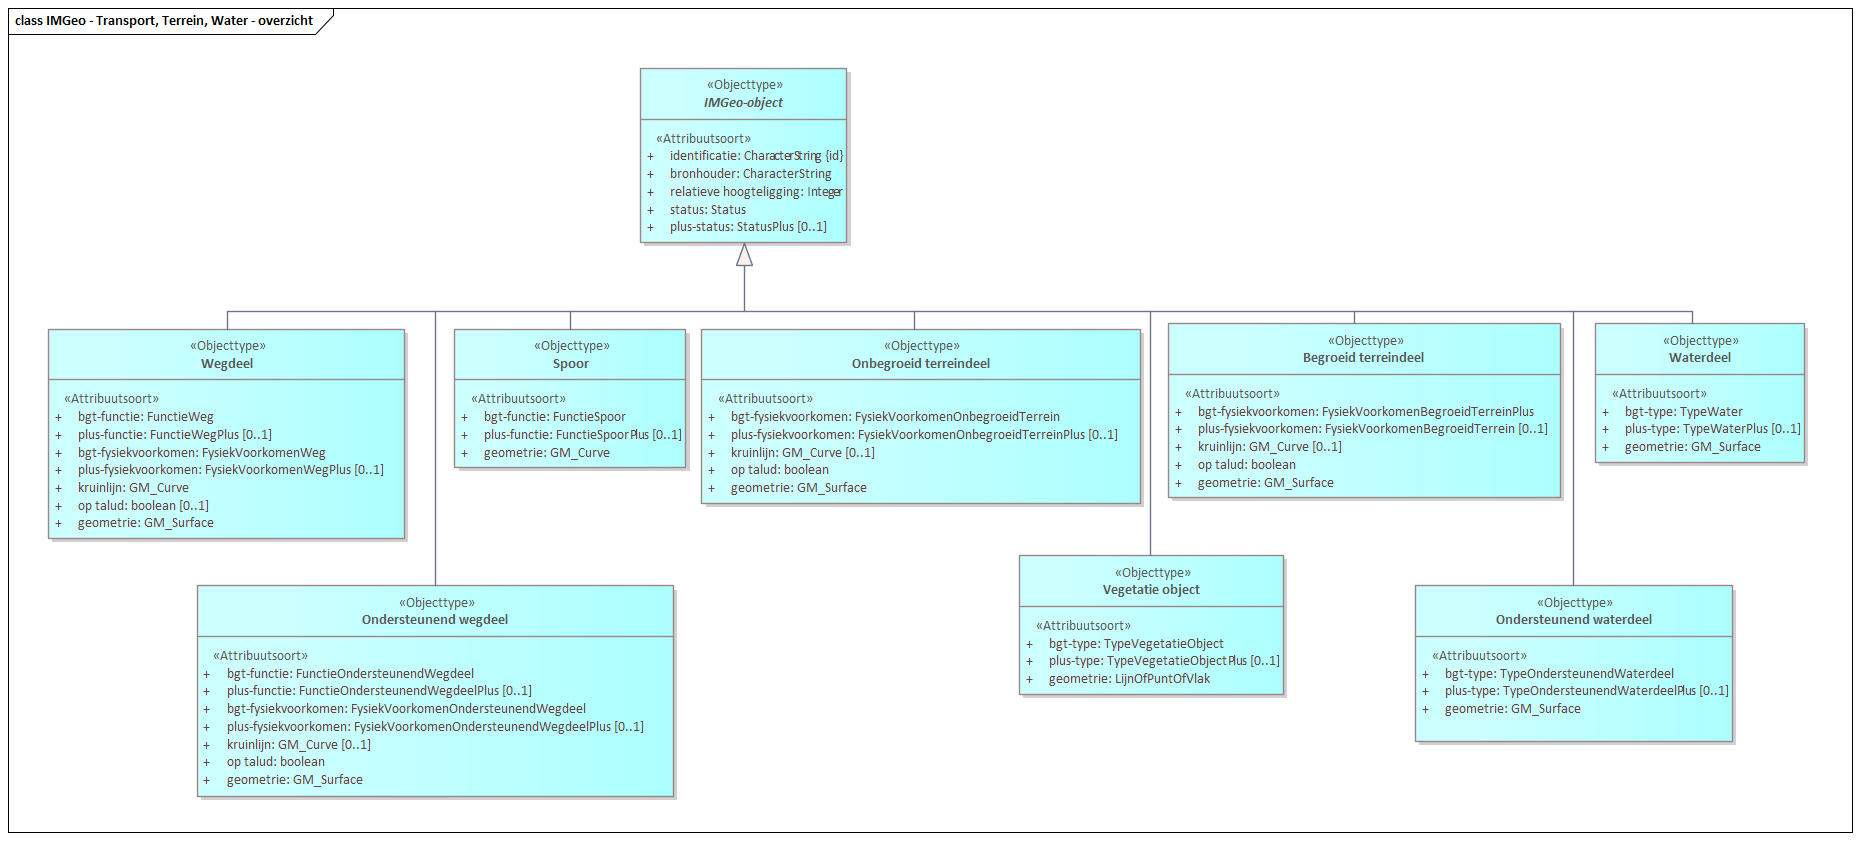
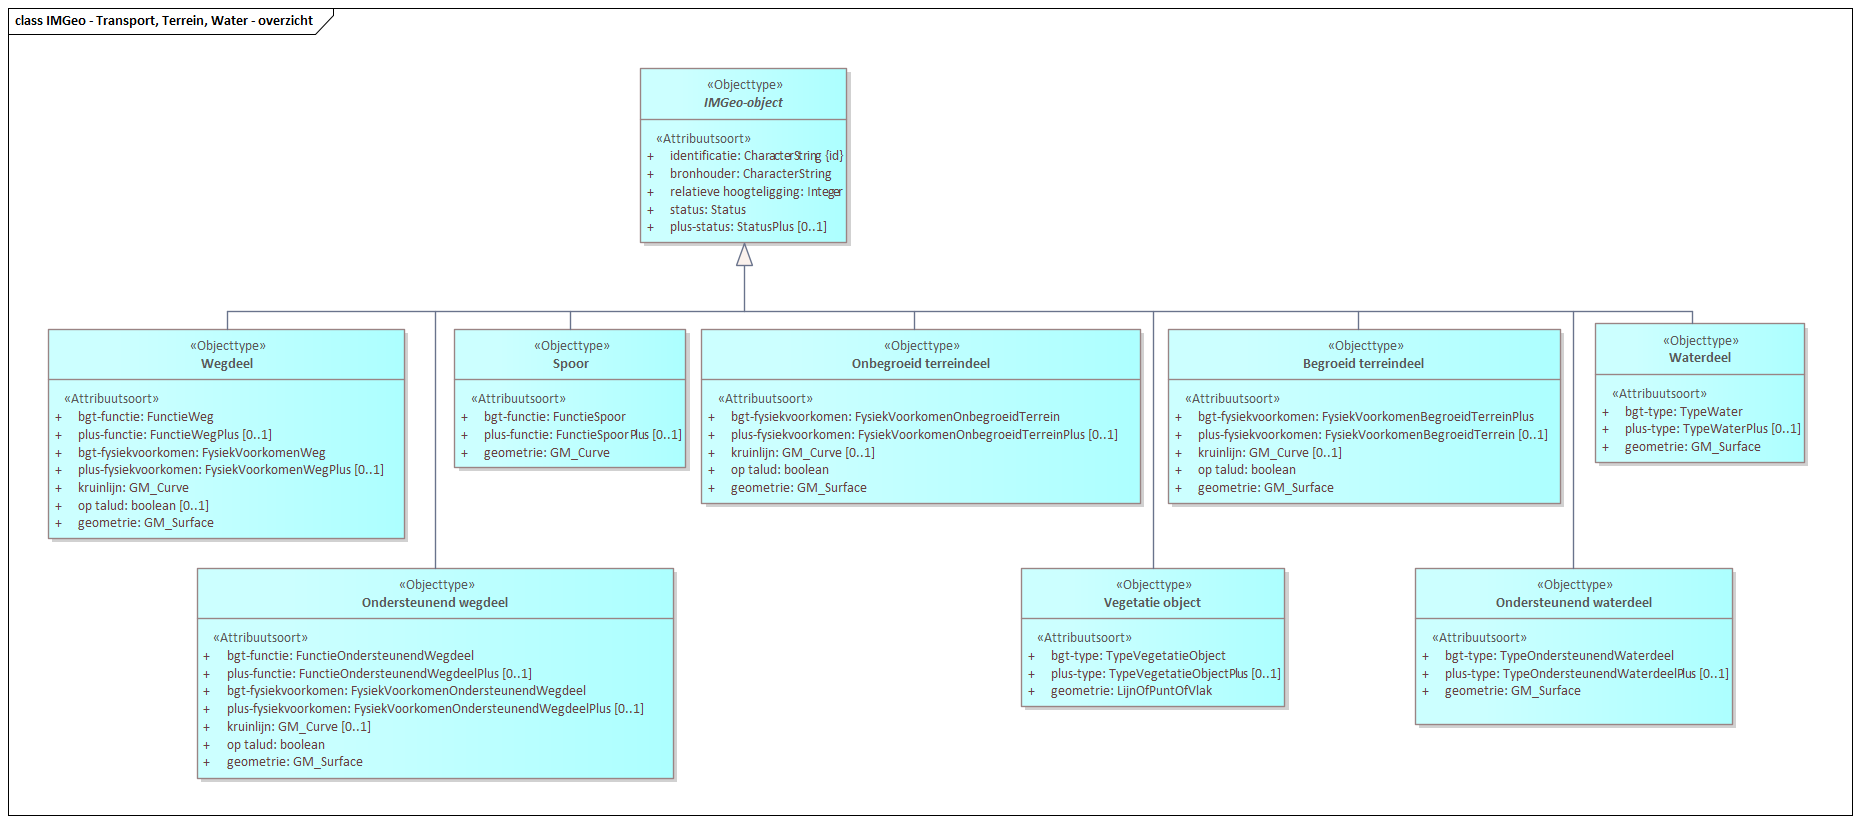
MIMCM-InformatiemodelGeografieIMGeo-conceptueel-1.0-0-20200701-20230307-090138

diff --git a/data/IMGeoMIM-cat.respec.html b/data/IMGeoMIM-cat.respec.html
@@ -1,15 +1,15 @@
 
 <!DOCTYPE HTML><section id="cat" class="normative">
    <h2>Gegevensdefinitie</h2>
-   <!--MIMCM-InformatiemodelGeografieIMGeo-conceptueel-1.0-0-20200701-20230307-085833 imvertor 2.0.0-->
+   <!--MIMCM-InformatiemodelGeografieIMGeo-conceptueel-1.0-0-20200701-20230307-090138 imvertor 2.0.0-->
    <section id="EAID_5FD075D2_9C53_4d36_8A79_415F3AE02764">
       <h3>   IMGeo - overzicht</h3>
-      <div class="imageinfo overview"><img src="data/Images/EAID_5FD075D2_9C53_4d36_8A79_415F3AE02764.png" usemap="#imagemap-EAID_5FD075D2_9C53_4d36_8A79_415F3AE02764" alt="Diagram &#xA;                        &#xA;                     "><map name="imagemap-EAID_5FD075D2_9C53_4d36_8A79_415F3AE02764"><area shape="rect" alt="Openbare ruimte label" coords="307,418,430,513" href="#graph_EAID_393A1EC3_555D_4a33_91F8_599F9CCCFBC8"><area shape="rect" alt="Mast" coords="2006,428,2129,476" href="#graph_EAID_33BF6667_AC76_4662_AB8F_169A9AEFBD03"><area shape="rect" alt="Kast" coords="1845,428,1968,476" href="#graph_EAID_0EAD1532_141C_41b0_A472_3A0E5395603F"><area shape="rect" alt="Plaatsbepalingspunt" coords="49,393,172,441" href="#graph_EAID_DD0900EA_0BAE_41e2_ADB3_B27B64B63058"><area shape="rect" alt="Wijk" coords="744,665,867,712" href="#graph_EAID_C5AD7221_FCA8_4248_AFD7_12555C772918"><area shape="rect" alt="Waterschap" coords="561,665,684,712" href="#graph_EAID_0F635A09_02C4_4a55_95BA_FB9B8C540310"><area shape="rect" alt="Stadsdeel" coords="843,558,966,606" href="#graph_EAID_FB7077BC_A5C7_4eb0_B812_9FF5E68EBD68"><area shape="rect" alt="Openbare ruimte" coords="464,558,587,606" href="#graph_EAID_554DD1BA_09D6_4b59_A10B_5EFAF21F380A"><area shape="rect" alt="Buurt" coords="645,558,768,606" href="#graph_EAID_64E8E751_2C46_40c4_AC41_34F5C525D06B"><area shape="rect" alt="Registratief gebied" coords="626,413,749,465" href="#graph_EAID_5E1F5FB9_69EA_4484_BFB5_EA9852E28158"><area shape="rect" alt="Waterinrichtingselement" coords="1912,491,2059,539" href="#graph_EAID_58AFC5DF_8F7B_42fd_BF65_081A53C5DF4E"><area shape="rect" alt="Vegetatie object" coords="478,322,600,370" href="#graph_EAID_AF1CAF23_1DA8_4cd5_8F9E_47FB11B51D4E"><area shape="rect" alt="Straatmeubilair" coords="1627,491,1749,539" href="#graph_EAID_349FB63B_2993_4228_A535_E3D48A05B7FF"><area shape="rect" alt="Put" coords="1482,491,1605,539" href="#graph_EAID_8AF8550A_4C5D_421f_A2E9_84EE5CA78BA0"><area shape="rect" alt="Paal" coords="2163,428,2286,476" href="#graph_EAID_1C5D6A3E_E4D5_44b8_85EA_54355E8AE2F5"><area shape="rect" alt="Installatie" coords="1696,428,1819,476" href="#graph_EAID_160CB003_2693_4c89_B36C_394617C684D5"><area shape="rect" alt="Gebouwinstallatie" coords="1055,303,1178,351" href="#graph_EAID_B6E894DE_953B_4911_83D2_F449AE1E4A0B"><area shape="rect" alt="Bord" coords="1553,428,1676,476" href="#graph_EAID_11151DAB_9A17_45ba_AE6C_F3152D2ADCF5"><area shape="rect" alt="Bak" coords="1401,428,1524,476" href="#graph_EAID_70086FC7_9479_427e_92C6_683F7CC4C93C"><area shape="rect" alt="Inrichtingselement" coords="1401,289,1526,337" href="#graph_EAID_CA79D5DA_E6D4_4bc8_8597_5B50A56DAF42"><area shape="rect" alt="Functioneel gebied" coords="892,407,1015,454" href="#graph_EAID_AD18C881_A1D6_4adb_949E_37D29D09E538"><area shape="rect" alt="Scheiding" coords="1178,476,1300,524" href="#graph_EAID_7758B10D_C94A_45f9_8C7A_133D2EC0AD87"><area shape="rect" alt="Tunneldeel" coords="1220,303,1343,351" href="#graph_EAID_A6159626_DB05_46e4_9726_773CA218328D"><area shape="rect" alt="Overbruggingsdeel" coords="1305,224,1427,272" href="#graph_EAID_EF4F6DCD_F658_47b6_BC18_672638D740C3"><area shape="rect" alt="Kunstwerkdeel" coords="1264,396,1386,443" href="#graph_EAID_69BCE102_6A99_445b_95C4_6DEE700870AD"><area shape="rect" alt="Overige constructie" coords="1141,224,1264,295" href="#graph_EAID_FA6301E5_2D0F_4cd1_B09E_AA2BB2B23D20"><area shape="rect" alt="Overig bouwwerk" coords="1099,407,1220,454" href="#graph_EAID_AC51AD8C_5710_46e8_A302_49C26E248CF7"><area shape="rect" alt="Pand" coords="987,224,1109,272" href="#graph_EAID_4B1215E2_D03D_47e6_A00A_8968C2F47DF6"><area shape="rect" alt="Ondersteunend waterdeel" coords="751,287,936,334" href="#graph_EAID_285456F8_B7BE_4a0b_A732_0CB3B01F9E09"><area shape="rect" alt="Waterdeel" coords="708,221,831,269" href="#graph_EAID_99BF045C_F962_4396_8CEC_C356BADD9F5B"><area shape="rect" alt="Onbegroeid terreindeel" coords="359,221,525,269" href="#graph_EAID_96FDB788_BB53_4d7b_8726_310DF716EC45"><area shape="rect" alt="Begroeid terreindeel" coords="551,221,674,310" href="#graph_EAID_3AD903EB_DBC0_4c1c_B30F_2A69E2B82000"><area shape="rect" alt="Sensor" coords="1770,491,1893,539" href="#graph_EAID_BAE5E52D_81F4_46ea_AD00_A7521A6904CC"><area shape="rect" alt="Weginrichtingselement" coords="2078,491,2216,539" href="#graph_EAID_607E5D78_4925_421e_9656_4B0BA6262C21"><area shape="rect" alt="Spoor" coords="217,221,340,269" href="#graph_EAID_9A73030A_894B_44f0_8474_9A2776626FB0"><area shape="rect" alt="Ondersteunend wegdeel" coords="105,287,276,334" href="#graph_EAID_09E25A4C_C1C7_41e5_8C2D_942054F01D9E"><area shape="rect" alt="IMGeo-object" coords="613,68,801,139" href="#graph_EAID_1B21E16C_9E4C_4c8d_8CB5_1E35B41243EB"><area shape="rect" alt="Wegdeel" coords="48,221,171,269" href="#graph_EAID_141C517B_0337_4a8c_948C_516F063454FE"></map><p><b>IMGeo - overzicht</b></p>
+      <div class="imageinfo overview"><img src="data/Images/EAID_5FD075D2_9C53_4d36_8A79_415F3AE02764.png" usemap="#imagemap-EAID_5FD075D2_9C53_4d36_8A79_415F3AE02764" alt="Diagram &#xA;                        &#xA;                     "><map name="imagemap-EAID_5FD075D2_9C53_4d36_8A79_415F3AE02764"><area shape="rect" alt="Openbare ruimte label" coords="307,393,430,489" href="#graph_EAID_393A1EC3_555D_4a33_91F8_599F9CCCFBC8"><area shape="rect" alt="Mast" coords="2006,428,2129,476" href="#graph_EAID_33BF6667_AC76_4662_AB8F_169A9AEFBD03"><area shape="rect" alt="Kast" coords="1845,428,1968,476" href="#graph_EAID_0EAD1532_141C_41b0_A472_3A0E5395603F"><area shape="rect" alt="Plaatsbepalingspunt" coords="49,393,172,441" href="#graph_EAID_DD0900EA_0BAE_41e2_ADB3_B27B64B63058"><area shape="rect" alt="Wijk" coords="741,681,864,729" href="#graph_EAID_C5AD7221_FCA8_4248_AFD7_12555C772918"><area shape="rect" alt="Waterschap" coords="558,681,681,729" href="#graph_EAID_0F635A09_02C4_4a55_95BA_FB9B8C540310"><area shape="rect" alt="Stadsdeel" coords="841,574,963,622" href="#graph_EAID_FB7077BC_A5C7_4eb0_B812_9FF5E68EBD68"><area shape="rect" alt="Openbare ruimte" coords="461,574,584,622" href="#graph_EAID_554DD1BA_09D6_4b59_A10B_5EFAF21F380A"><area shape="rect" alt="Buurt" coords="643,574,766,622" href="#graph_EAID_64E8E751_2C46_40c4_AC41_34F5C525D06B"><area shape="rect" alt="Registratief gebied" coords="626,393,749,482" href="#graph_EAID_5E1F5FB9_69EA_4484_BFB5_EA9852E28158"><area shape="rect" alt="Waterinrichtingselement" coords="1912,491,2059,539" href="#graph_EAID_58AFC5DF_8F7B_42fd_BF65_081A53C5DF4E"><area shape="rect" alt="Vegetatie object" coords="478,322,600,370" href="#graph_EAID_AF1CAF23_1DA8_4cd5_8F9E_47FB11B51D4E"><area shape="rect" alt="Straatmeubilair" coords="1627,491,1749,539" href="#graph_EAID_349FB63B_2993_4228_A535_E3D48A05B7FF"><area shape="rect" alt="Put" coords="1482,491,1605,539" href="#graph_EAID_8AF8550A_4C5D_421f_A2E9_84EE5CA78BA0"><area shape="rect" alt="Paal" coords="2163,428,2286,476" href="#graph_EAID_1C5D6A3E_E4D5_44b8_85EA_54355E8AE2F5"><area shape="rect" alt="Installatie" coords="1696,428,1819,476" href="#graph_EAID_160CB003_2693_4c89_B36C_394617C684D5"><area shape="rect" alt="Gebouwinstallatie" coords="1055,303,1178,351" href="#graph_EAID_B6E894DE_953B_4911_83D2_F449AE1E4A0B"><area shape="rect" alt="Bord" coords="1553,428,1676,476" href="#graph_EAID_11151DAB_9A17_45ba_AE6C_F3152D2ADCF5"><area shape="rect" alt="Bak" coords="1401,428,1524,476" href="#graph_EAID_70086FC7_9479_427e_92C6_683F7CC4C93C"><area shape="rect" alt="Inrichtingselement" coords="1401,303,1526,351" href="#graph_EAID_CA79D5DA_E6D4_4bc8_8597_5B50A56DAF42"><area shape="rect" alt="Functioneel gebied" coords="892,393,1015,482" href="#graph_EAID_AD18C881_A1D6_4adb_949E_37D29D09E538"><area shape="rect" alt="Scheiding" coords="1178,461,1300,509" href="#graph_EAID_7758B10D_C94A_45f9_8C7A_133D2EC0AD87"><area shape="rect" alt="Tunneldeel" coords="1220,303,1343,351" href="#graph_EAID_A6159626_DB05_46e4_9726_773CA218328D"><area shape="rect" alt="Overbruggingsdeel" coords="1305,224,1427,272" href="#graph_EAID_EF4F6DCD_F658_47b6_BC18_672638D740C3"><area shape="rect" alt="Kunstwerkdeel" coords="1264,393,1386,441" href="#graph_EAID_69BCE102_6A99_445b_95C4_6DEE700870AD"><area shape="rect" alt="Overige constructie" coords="1141,224,1264,295" href="#graph_EAID_FA6301E5_2D0F_4cd1_B09E_AA2BB2B23D20"><area shape="rect" alt="Overig bouwwerk" coords="1099,393,1220,441" href="#graph_EAID_AC51AD8C_5710_46e8_A302_49C26E248CF7"><area shape="rect" alt="Pand" coords="987,224,1109,272" href="#graph_EAID_4B1215E2_D03D_47e6_A00A_8968C2F47DF6"><area shape="rect" alt="Ondersteunend waterdeel" coords="752,303,937,351" href="#graph_EAID_285456F8_B7BE_4a0b_A732_0CB3B01F9E09"><area shape="rect" alt="Waterdeel" coords="708,224,831,272" href="#graph_EAID_99BF045C_F962_4396_8CEC_C356BADD9F5B"><area shape="rect" alt="Onbegroeid terreindeel" coords="359,224,525,272" href="#graph_EAID_96FDB788_BB53_4d7b_8726_310DF716EC45"><area shape="rect" alt="Begroeid terreindeel" coords="551,224,674,312" href="#graph_EAID_3AD903EB_DBC0_4c1c_B30F_2A69E2B82000"><area shape="rect" alt="Sensor" coords="1770,491,1893,539" href="#graph_EAID_BAE5E52D_81F4_46ea_AD00_A7521A6904CC"><area shape="rect" alt="Weginrichtingselement" coords="2078,491,2216,539" href="#graph_EAID_607E5D78_4925_421e_9656_4B0BA6262C21"><area shape="rect" alt="Spoor" coords="217,224,340,272" href="#graph_EAID_9A73030A_894B_44f0_8474_9A2776626FB0"><area shape="rect" alt="Ondersteunend wegdeel" coords="106,303,277,351" href="#graph_EAID_09E25A4C_C1C7_41e5_8C2D_942054F01D9E"><area shape="rect" alt="IMGeo-object" coords="613,68,801,139" href="#graph_EAID_1B21E16C_9E4C_4c8d_8CB5_1E35B41243EB"><area shape="rect" alt="Wegdeel" coords="48,224,171,272" href="#graph_EAID_141C517B_0337_4a8c_948C_516F063454FE"></map><p><b>IMGeo - overzicht</b></p>
       </div>
    </section>
    <section id="EAID_F4808203_D346_4e19_A0E0_0F12A0A48A10">
       <h3>   IMGeo - Transport, Terrein, Water - overzicht</h3>
-      <div class="imageinfo overview"><img src="data/Images/EAID_F4808203_D346_4e19_A0E0_0F12A0A48A10.png" usemap="#imagemap-EAID_F4808203_D346_4e19_A0E0_0F12A0A48A10" alt="Diagram &#xA;                        &#xA;                     "><map name="imagemap-EAID_F4808203_D346_4e19_A0E0_0F12A0A48A10"><area shape="rect" alt="Ondersteunend waterdeel" coords="1415,585,1733,742" href="#graph_EAID_285456F8_B7BE_4a0b_A732_0CB3B01F9E09"><area shape="rect" alt="Waterdeel" coords="1595,323,1805,463" href="#graph_EAID_99BF045C_F962_4396_8CEC_C356BADD9F5B"><area shape="rect" alt="Vegetatie object" coords="1019,555,1284,695" href="#graph_EAID_AF1CAF23_1DA8_4cd5_8F9E_47FB11B51D4E"><area shape="rect" alt="Onbegroeid terreindeel" coords="701,329,1141,504" href="#graph_EAID_96FDB788_BB53_4d7b_8726_310DF716EC45"><area shape="rect" alt="Begroeid terreindeel" coords="1168,323,1561,498" href="#graph_EAID_3AD903EB_DBC0_4c1c_B30F_2A69E2B82000"><area shape="rect" alt="Spoor" coords="454,329,686,468" href="#graph_EAID_9A73030A_894B_44f0_8474_9A2776626FB0"><area shape="rect" alt="Ondersteunend wegdeel" coords="197,585,674,797" href="#graph_EAID_09E25A4C_C1C7_41e5_8C2D_942054F01D9E"><area shape="rect" alt="IMGeo-object" coords="640,68,847,243" href="#graph_EAID_1B21E16C_9E4C_4c8d_8CB5_1E35B41243EB"><area shape="rect" alt="Wegdeel" coords="48,329,405,539" href="#graph_EAID_141C517B_0337_4a8c_948C_516F063454FE"></map><p><b>IMGeo - Transport, Terrein, Water - overzicht</b></p>
+      <div class="imageinfo overview"><img src="data/Images/EAID_F4808203_D346_4e19_A0E0_0F12A0A48A10.png" usemap="#imagemap-EAID_F4808203_D346_4e19_A0E0_0F12A0A48A10" alt="Diagram &#xA;                        &#xA;                     "><map name="imagemap-EAID_F4808203_D346_4e19_A0E0_0F12A0A48A10"><area shape="rect" alt="Ondersteunend waterdeel" coords="1415,568,1733,725" href="#graph_EAID_285456F8_B7BE_4a0b_A732_0CB3B01F9E09"><area shape="rect" alt="Waterdeel" coords="1595,323,1805,463" href="#graph_EAID_99BF045C_F962_4396_8CEC_C356BADD9F5B"><area shape="rect" alt="Vegetatie object" coords="1021,568,1285,707" href="#graph_EAID_AF1CAF23_1DA8_4cd5_8F9E_47FB11B51D4E"><area shape="rect" alt="Onbegroeid terreindeel" coords="701,329,1141,504" href="#graph_EAID_96FDB788_BB53_4d7b_8726_310DF716EC45"><area shape="rect" alt="Begroeid terreindeel" coords="1168,329,1561,504" href="#graph_EAID_3AD903EB_DBC0_4c1c_B30F_2A69E2B82000"><area shape="rect" alt="Spoor" coords="454,329,686,468" href="#graph_EAID_9A73030A_894B_44f0_8474_9A2776626FB0"><area shape="rect" alt="Ondersteunend wegdeel" coords="197,568,674,779" href="#graph_EAID_09E25A4C_C1C7_41e5_8C2D_942054F01D9E"><area shape="rect" alt="IMGeo-object" coords="640,68,847,243" href="#graph_EAID_1B21E16C_9E4C_4c8d_8CB5_1E35B41243EB"><area shape="rect" alt="Wegdeel" coords="48,329,405,539" href="#graph_EAID_141C517B_0337_4a8c_948C_516F063454FE"></map><p><b>IMGeo - Transport, Terrein, Water - overzicht</b></p>
       </div>
    </section>
    <section id="EAID_AAE27511_FED5_4d0d_BA47_1041AAFF2933">
@@ -13655,7 +13655,7 @@
 </section>
 <section id="lis" class="normative">
    <h2>Inhoud van waardenlijsten</h2>
-   <!--MIMCM-InformatiemodelGeografieIMGeo-conceptueel-1.0-0-20200701-20230307-085833 imvertor 2.0.0--><a class="anchor" id="graph_EAID_5EFC3C11_5FD1_4cf6_BA9C_27FEDC7E2E0F"></a><a class="anchor" id="detail_class_IMGeo_Status"></a><section id="detail_class_IMGeo_Status">
+   <!--MIMCM-InformatiemodelGeografieIMGeo-conceptueel-1.0-0-20200701-20230307-090138 imvertor 2.0.0--><a class="anchor" id="graph_EAID_5EFC3C11_5FD1_4cf6_BA9C_27FEDC7E2E0F"></a><a class="anchor" id="detail_class_IMGeo_Status"></a><section id="detail_class_IMGeo_Status">
       <h3>Enumeratie details  Status</h3>
       
       <table style="width: 100%;" class="list">
